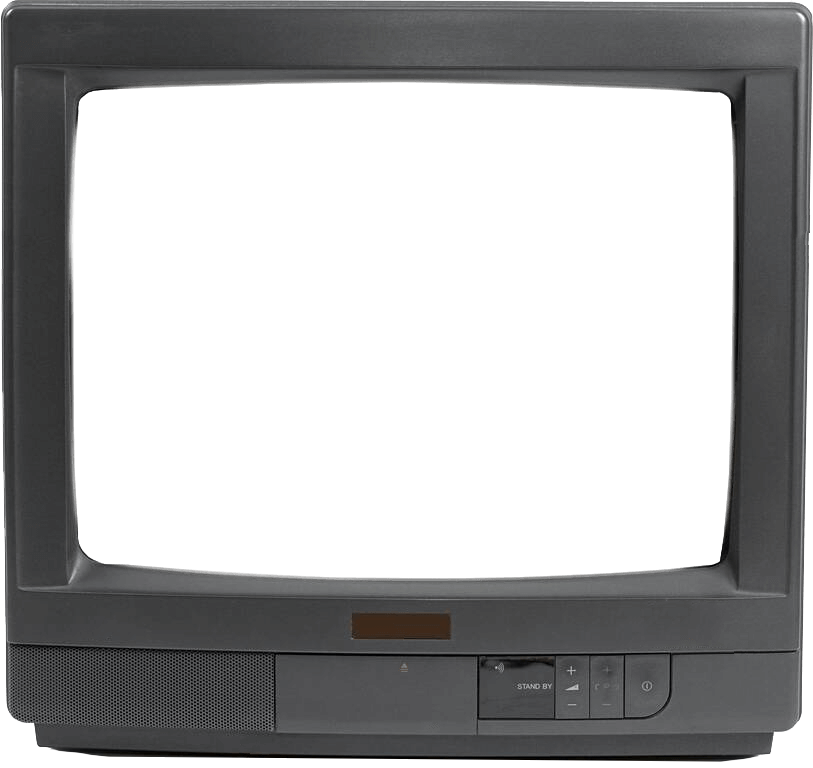
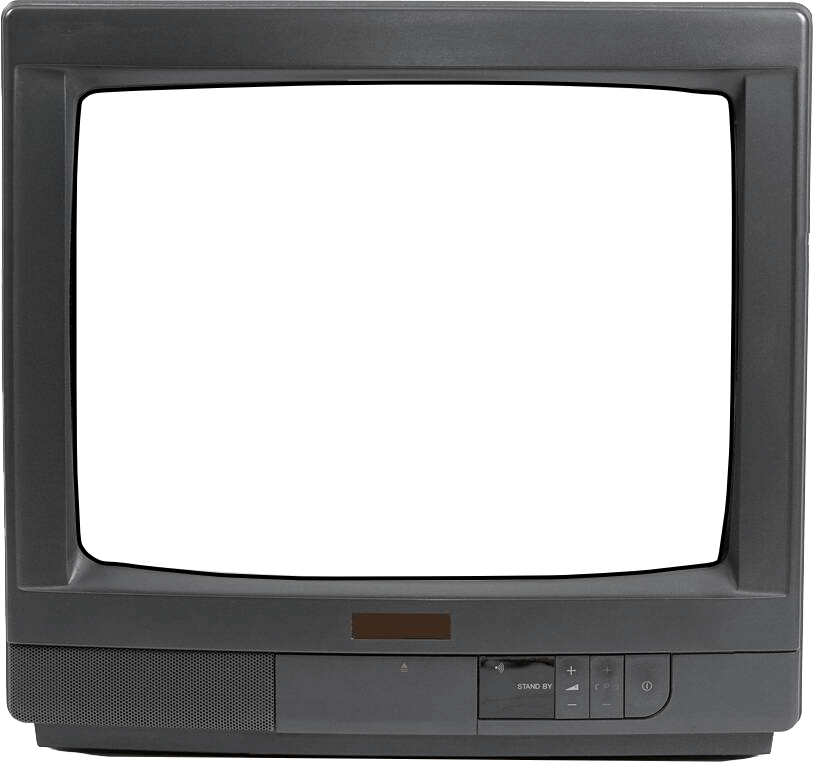
finished CRT display

diff --git a/src/css/minigames.css b/src/css/minigames.css
@@ -13,25 +13,60 @@
     width: calc(100% - var(--CRT-padding) * 2);
 }
 
-#crt-img {
+#crt-border {
     width: 100%;   
     position: relative;
-    z-index: 2;
 }
 
-#static-gif {
+.crt-internal {
     position: absolute;
     
     width: 100%;
     height: 100%;
-    object-fit: cover;
     top: 0px;
     left: 0px;
-
-    /* z-index: 3;
-    opacity: .5; */
     mask-image: url(../res/minigames/crt-mask.png);
     mask-repeat: no-repeat;
     mask-size: calc(100% - var(--CRT-padding) * 2) calc(100% - var(--CRT-padding) * 2);
     mask-position: center;
+}
+
+#crt-static {
+    background-image: url(../res/minigames/static.gif);
+    background-position: center;
+    background-size: 33%;
+}
+
+#crt-shadow {
+    background-image: radial-gradient(at 50% 45%, transparent 0%, black 65%);
+}
+
+#crt-screen-door-rows {
+    background-image:
+    repeating-linear-gradient(to bottom,
+    white 0px, white 1px,
+    #ccc 1px, #ccc 2px);
+    opacity: 10%;
+    animation: scan-flicker 100ms infinite;
+}
+
+#crt-screen-door-cols {
+    background-image:
+    repeating-linear-gradient(to right,
+    red 2%, green 4%, blue 6%);
+    opacity: 5%;
+}
+
+@keyframes scan-flicker {
+    0% {
+        transform: translateY(0px);
+    }
+
+    50% {
+        transform: translateY(3px);
+    }
+
+    100% {
+        transform: translateY(0px);
+    }
 }

diff --git a/src/components/minigames/crt.jsx b/src/components/minigames/crt.jsx
@@ -1,13 +1,18 @@
 import React from 'react'
 import '../../css/crt.css'
 import CRTborder from '../../res/minigames/crt-border.png'
-import staticGIF from '../../res/minigames/static.gif'
 
-export default function CRT() {
+export default function CRT(props) {
     return ( 
         <div id='crt-container'>
-            <img id='crt-img' src={CRTborder} alt="" />
-            <img id='static-gif' src={staticGIF} alt="" />
+            <div id='crt-static' className='crt-internal'></div>
+            <div id="crt-content" className='crt-internal'>
+                {props.children}
+            </div>
+            <div id="crt-shadow" className='crt-internal'></div>
+            <div id="crt-screen-door-rows" className='crt-internal'></div>
+            <div id="crt-screen-door-cols" className='crt-internal'></div>
+            <img id='crt-border' src={CRTborder} alt="" />
         </div>
      );
 }

diff --git a/src/components/minigames/minigames.jsx b/src/components/minigames/minigames.jsx
@@ -1,14 +1,15 @@
 import React from 'react'
-import { GameCase } from './gameCase'
+// import { GameCase } from './gameCase'
 import "../../css/minigames.css"
 import Section from '../section';
 import CRT from './crt';
+import { thumbnails } from '../home';
 
 function Minigames(props) {
     return ( 
         <Section id="minigames">
             <CRT>
-                
+                <img src={thumbnails["larrybirdle"]} alt="" />
             </CRT>
         </Section>
      );

diff --git a/src/css/projects.css b/src/css/projects.css
@@ -50,7 +50,7 @@
     display: flex;
     flex-direction: row;
     justify-content: space-between;
-    align-items: start;
+    align-items: flex-start;
 }
 
 #projects-container {
